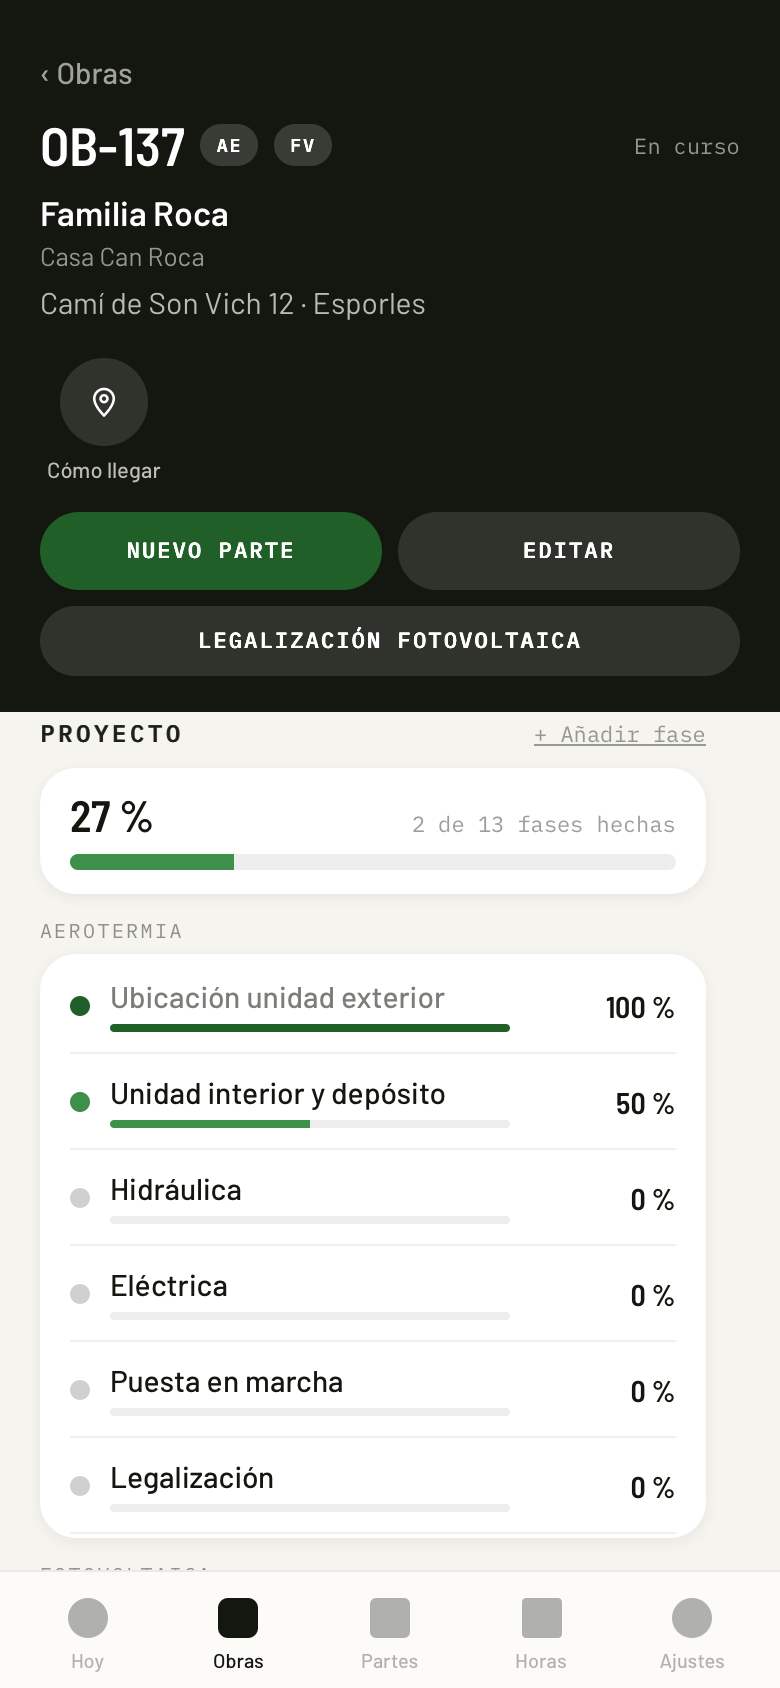
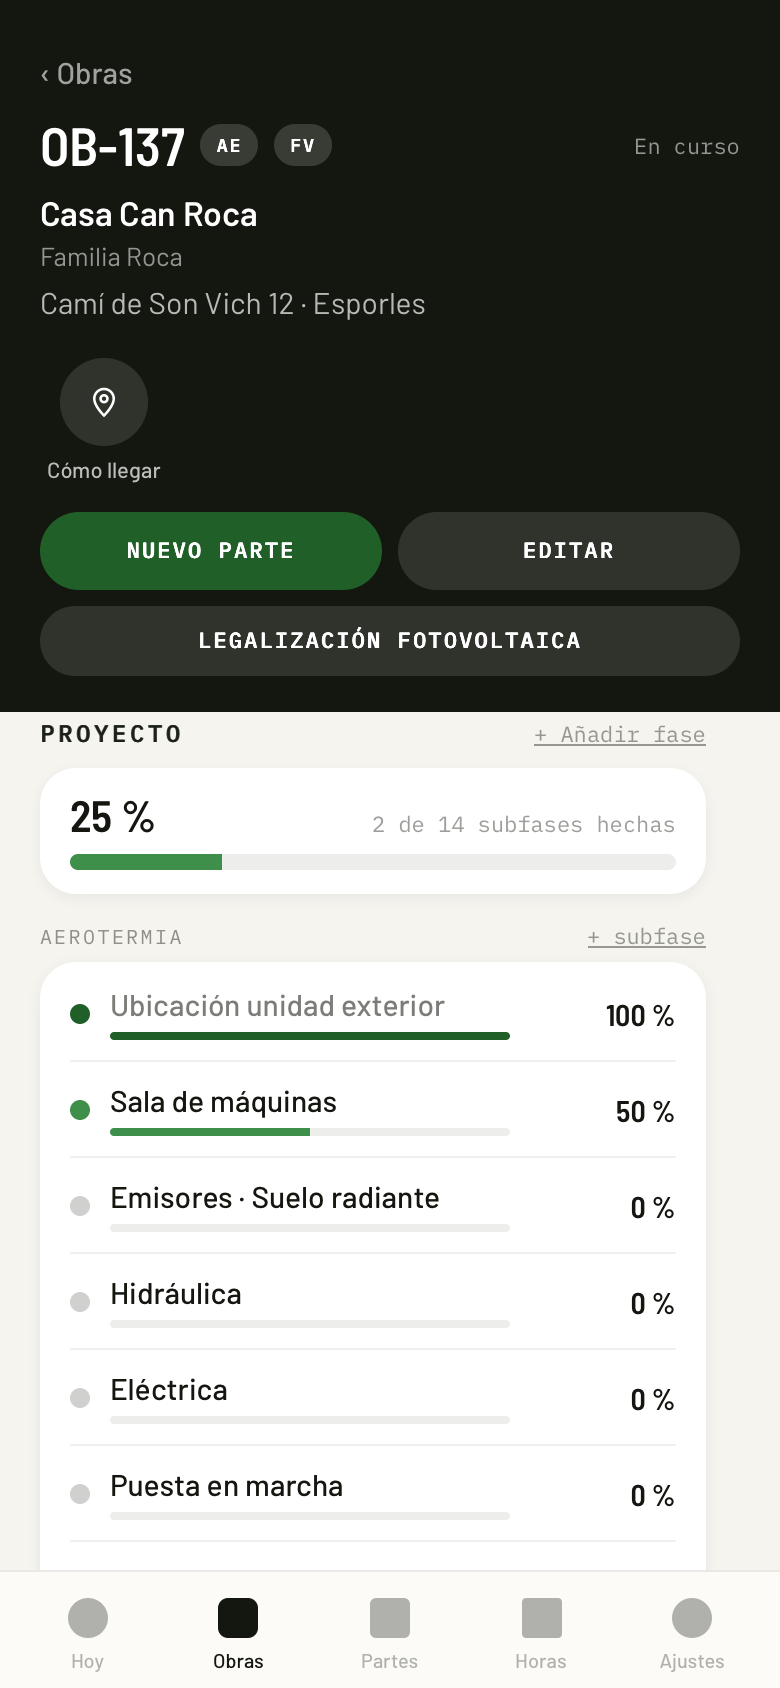
V20.7: fases propias en el proyecto («Fontanería», «Piscina») con sus subfases; «+ subfase» en cada fase

diff --git a/index.html b/index.html
@@ -390,7 +390,7 @@ import * as visitasDB from './visitas-db.js';
 window.Sysefen = { supabase, auth: sysAuth, db: sysDB };
 
 const KEY = 'ch_v1';
-const APP_VERSION = '20.6'; // versión visible de la app (única fuente)
+const APP_VERSION = '20.7'; // versión visible de la app (única fuente)
 const $ = (s) => document.querySelector(s);
 const esc = (v) => String(v == null ? '' : v).replace(/[&<>"']/g, (c) => ({ '&': '&amp;', '<': '&lt;', '>': '&gt;', '"': '&quot;', "'": '&#39;' }[c]));
 const uid = () => Date.now().toString(36) + Math.random().toString(36).slice(2, 7);
@@ -2494,6 +2494,7 @@ A.cerrarObra = async (id) => {
 S.fases = S.fases || [];
 const PCTS = [0, 25, 50, 75, 100];
 const faltaEtapa63 = (e) => /obra_fases|parte_fases|fase_plantillas|schema cache|PGRST205/i.test(typeof e === 'string' ? e : msgError(e));
+const faltaEtapa73 = (e) => /grupo/i.test(msgError(e));
 let sincFases = false;
 async function sincronizarFases() {
   if (!V.user || sincFases) return;
@@ -2511,7 +2512,7 @@ const veFasesComunes = () => veCostes();
 const planifica = () => veCostes();
 const HORA_VER_MANANA = 14;
 const yaSeVeManana = () => new Date().getHours() >= HORA_VER_MANANA;
-const fasesDe = (obraId) => S.fases.filter((f) => f.obra_id === obraId && (veFasesComunes() || f.categoria)).sort((a, b) => a.orden - b.orden || String(a.nombre).localeCompare(String(b.nombre), 'es'));
+const fasesDe = (obraId) => S.fases.filter((f) => f.obra_id === obraId && (veFasesComunes() || f.categoria || f.grupo)).sort((a, b) => a.orden - b.orden || String(a.nombre).localeCompare(String(b.nombre), 'es'));
 const faseById = (id) => S.fases.find((f) => f.id === id) || null;
 // «Emisores · Suelo radiante, Radiadores»: el nombre con lo elegido en la obra.
 const faseNombre = (f) => f.nombre + ((f.opciones || []).length ? ' · ' + f.opciones.join(', ') : '');
@@ -2528,11 +2529,25 @@ function fasesAgrupadas(obraId) {
   const fs = fasesDe(obraId);
   const grupos = [];
   const mete = (clave, titulo, lista) => { if (lista.length) grupos.push({ clave, titulo, fases: lista }); };
-  mete('ini', 'Preparación', fs.filter((f) => !f.categoria && f.orden < 500));
+  mete('ini', 'Preparación', fs.filter((f) => !f.categoria && !f.grupo && f.orden < 500));
   const o = obraById(obraId);
   OBRA_CATS.forEach((k) => mete(k, catObraNombre(k, o), fs.filter((f) => f.categoria === k)));
-  mete('fin', 'Cierre', fs.filter((f) => !f.categoria && f.orden >= 500));
+  // Las fases propias de esta obra («Fontanería», «Piscina»), en el orden en
+  // que se crearon (el de su primera subfase).
+  const propias = [];
+  fs.filter((f) => !f.categoria && f.grupo).forEach((f) => { if (!propias.includes(f.grupo)) propias.push(f.grupo); });
+  propias.forEach((g) => mete('g:' + g, g, fs.filter((f) => !f.categoria && f.grupo === g)));
+  mete('fin', 'Cierre', fs.filter((f) => !f.categoria && !f.grupo && f.orden >= 500));
   return grupos;
+}
+// Las claves de grupo que puede elegir una subfase nueva, con su nombre.
+function gruposParaSubfase(obraId) {
+  const o = obraById(obraId);
+  const lista = [['ini', 'Preparación']];
+  (o && o.categorias || []).forEach((k) => lista.push([k, catObraNombre(k, o)]));
+  fasesAgrupadas(obraId).filter((g) => g.clave.startsWith('g:')).forEach((g) => lista.push([g.clave, g.titulo]));
+  lista.push(['fin', 'Cierre']);
+  return lista;
 }
 const barraPct = (pct, color, alto) => `<div style="height:${alto || 6}px;border-radius:99px;background:rgba(20,23,15,.08);overflow:hidden"><div style="width:${Math.max(0, Math.min(100, pct))}%;height:100%;background:${color || 'var(--verde)'}"></div></div>`;
 const colorPct = (pct) => (pct >= 100 ? 'var(--verde)' : pct > 0 ? 'var(--verde-c)' : 'rgba(20,23,15,.2)');
@@ -2540,7 +2555,7 @@ const colorPct = (pct) => (pct >= 100 ? 'var(--verde)' : pct > 0 ? 'var(--verde-
 function avanceLineaHTML(obraId) {
   const a = avanceObra(obraId);
   if (!a) return '';
-  return `<div style="margin-top:10px"><div class="row" style="justify-content:space-between;align-items:baseline"><span class="lbl">Avance ${a.pct} %</span><span class="tiny">${a.hechas} de ${a.total} fases</span></div><div style="margin-top:5px">${barraPct(a.pct, colorPct(a.pct))}</div></div>`;
+  return `<div style="margin-top:10px"><div class="row" style="justify-content:space-between;align-items:baseline"><span class="lbl">Avance ${a.pct} %</span><span class="tiny">${a.hechas} de ${a.total} subfases</span></div><div style="margin-top:5px">${barraPct(a.pct, colorPct(a.pct))}</div></div>`;
 }
 // Quién puede mover el avance: quien puede hacer el parte (la base lo deja a
 // comerciales y a quien está en la obra).
@@ -2557,10 +2572,10 @@ function proyectoHTML(o) {
     return cab + `<div class="card"><div class="sub">Esta obra no tiene fases.${esComercial() ? ' Marca qué lleva la obra (AE, FV, AC) en «Editar» o ' : ' '}${esComercial() ? `<span data-a="faseGenerar" data-id="${o.id}" style="text-decoration:underline;cursor:pointer">genera las fases</span> de su categoría.` : 'Pídeselo a presupuestos.'}</div></div>`;
   }
   return cab + `<div class="card" style="padding:12px 15px">
-      <div class="row" style="justify-content:space-between;align-items:baseline"><span style="font:600 22px/1 var(--cond)">${a ? a.pct + ' %' : '—'}</span><span class="tiny">${a ? a.hechas + ' de ' + a.total + ' fases hechas' : 'todas marcadas como no aplica'}</span></div>
+      <div class="row" style="justify-content:space-between;align-items:baseline"><span style="font:600 22px/1 var(--cond)">${a ? a.pct + ' %' : '—'}</span><span class="tiny">${a ? a.hechas + ' de ' + a.total + ' subfases hechas' : 'todas marcadas como no aplica'}</span></div>
       <div style="margin-top:8px">${barraPct(a ? a.pct : 0, colorPct(a ? a.pct : 0), 8)}</div>
     </div>
-    ${grupos.map((g) => `<div class="lbl" style="margin:14px 0 6px">${esc(g.titulo)}</div>
+    ${grupos.map((g) => `<div class="row" style="justify-content:space-between;align-items:baseline;margin:14px 0 6px"><div class="lbl">${esc(g.titulo)}</div>${esComercial() ? `<span class="tiny" data-a="subfaseNueva" data-id="${o.id}" data-g="${esc(g.clave)}" style="cursor:pointer;text-decoration:underline">+ subfase</span>` : ''}</div>
       <div class="card" style="padding:2px 15px">${g.fases.map((f) => `<div class="row g10" data-a="faseVer" data-id="${f.id}" style="align-items:center;padding:10px 0;border-bottom:1px solid var(--l1);cursor:pointer;${f.no_aplica ? 'opacity:.45' : ''}">
           <span class="dot" style="width:10px;height:10px;background:${f.no_aplica ? 'transparent' : colorPct(f.pct)};${f.no_aplica ? 'border:1.5px solid var(--t3)' : ''}"></span>
           <div class="grow"><div style="font:500 15px/1.25 var(--sans);${f.pct === 100 ? 'color:var(--t2)' : ''}">${esc(faseNombre(f))}${(f.opciones_posibles || []).length && !(f.opciones || []).length ? ' <span class="tiny" style="color:var(--ambar-o)">· elegir</span>' : ''}</div>
@@ -2576,12 +2591,12 @@ function avanceParteHTML(d) {
   const avance = d.avance || {};
   return `<div class="row" style="justify-content:space-between;margin:22px 0 8px;align-items:baseline">
       <div class="lbl">Avance de la obra</div>
-      <div class="tiny">${hechas} de ${fs.length} fases hechas</div>
+      <div class="tiny">${hechas} de ${fs.length} subfases hechas</div>
     </div>
-    <div class="tiny" style="margin-bottom:8px">Con este parte, ¿hasta dónde queda cada fase? Toca el porcentaje. Lo que no cambie, se queda como está.</div>
+    <div class="tiny" style="margin-bottom:8px">Con este parte, ¿hasta dónde queda cada subfase? Toca el porcentaje. Lo que no cambie, se queda como está.</div>
     <div class="card" style="padding:2px 15px">
       ${pendientes.length ? pendientes.map((f) => { const v = avance[f.id] != null ? avance[f.id] : f.pct; return `<div style="padding:11px 0;border-bottom:1px solid var(--l1)">
-        <div class="row" style="justify-content:space-between;align-items:baseline"><span style="font:500 15px/1.25 var(--sans)">${esc(faseNombre(f))}${f.categoria ? ` <span class="badge" style="background:rgba(20,23,15,.07);color:var(--t2)">${esc(f.categoria)}</span>` : ''}</span><span class="tiny">${avance[f.id] != null && avance[f.id] !== f.pct ? 'antes ' + f.pct + ' %' : ''}</span></div>
+        <div class="row" style="justify-content:space-between;align-items:baseline"><span style="font:500 15px/1.25 var(--sans)">${esc(faseNombre(f))}${f.categoria || f.grupo ? ` <span class="badge" style="background:rgba(20,23,15,.07);color:var(--t2)">${esc(f.categoria || f.grupo)}</span>` : ''}</span><span class="tiny">${avance[f.id] != null && avance[f.id] !== f.pct ? 'antes ' + f.pct + ' %' : ''}</span></div>
         <div class="row g8" style="margin-top:8px">${PCTS.map((pc) => `<span class="chip ${v === pc ? 'on' : ''}" data-a="parteAvance" data-id="${f.id}" data-p="${pc}" style="padding:8px 0;flex:1;text-align:center;${pc < f.pct ? 'opacity:.35' : ''}">${pc}</span>`).join('')}</div>
       </div>`; }).join('') : '<div class="sub" style="padding:12px 0">Todas las fases están al 100 %.</div>'}
     </div>`;
@@ -2620,18 +2635,39 @@ A.faseNota = async () => {
 };
 A.faseQuitar = async (id) => {
   const f = faseById(id); if (!f || !esComercial()) return;
-  try { await Sysefen.db.borrarFase(id); S.fases = S.fases.filter((x) => x.id !== id); V.sheet = null; toast('Fase quitada.'); render(); }
+  try { await Sysefen.db.borrarFase(id); S.fases = S.fases.filter((x) => x.id !== id); V.sheet = null; toast('Subfase quitada.'); render(); }
   catch (e) { avisar('No se pudo quitar: ' + msgError(e)); }
 };
-A.faseNueva = (obraId) => { const o = obraById(obraId); V.sheet = { tipo: 'faseNueva', obraId, nombre: '', categoria: (o && o.categorias && o.categorias[0]) || null, busy: false }; render(); };
+// Una FASE es un bloque del proyecto (Preparación, Aerotermia, Fontanería…);
+// dentro van las SUBFASES. Las de categoría salen de la plantilla; las propias
+// («Fontanería», «Piscina») se crean aquí con sus primeras subfases.
+A.faseNueva = (obraId) => { V.sheet = { tipo: 'faseNueva', obraId, nombre: '', subfases: '', busy: false }; render(); };
 A.faseCrear = async () => {
   const s = V.sheet; if (!s || s.tipo !== 'faseNueva' || s.busy) return;
-  const nombre = (s.nombre || '').trim(); if (!nombre) { avisar('Pon el nombre de la fase.'); return; }
+  const grupo = (s.nombre || '').trim(); if (!grupo) { avisar('Pon el nombre de la fase (por ejemplo, Fontanería).'); return; }
+  if (fasesAgrupadas(s.obraId).some((g) => g.titulo.toLowerCase() === grupo.toLowerCase())) { avisar('Ya hay una fase que se llama así: añádele subfases desde su «+ subfase».'); return; }
+  const nombres = String(s.subfases || '').split(/\n|;/).map((x) => x.trim()).filter(Boolean);
+  if (!nombres.length) { avisar('Pon al menos una subfase, una por línea.'); return; }
   s.busy = true; render();
-  const fs = fasesDe(s.obraId).filter((f) => (f.categoria || null) === (s.categoria || null));
-  const orden = fs.length ? Math.max(...fs.map((f) => f.orden)) + 1 : (s.categoria ? 400 : 40);
-  try { const nf = await Sysefen.db.crearFase({ obra_id: s.obraId, categoria: s.categoria || null, nombre, orden }); S.fases.push(nf); V.sheet = null; toast('Fase añadida.'); render(); }
-  catch (e) { s.busy = false; avisar(faltaEtapa63(e) ? 'Falta ejecutar sql/etapa63 en Supabase.' : 'No se pudo añadir: ' + msgError(e)); render(); }
+  try {
+    let orden = 700;
+    for (const nombre of nombres) { const nf = await Sysefen.db.crearFase({ obra_id: s.obraId, categoria: null, grupo, nombre, orden: orden++ }); S.fases.push(nf); }
+    V.sheet = null; toast('Fase «' + grupo + '» añadida con ' + nombres.length + (nombres.length === 1 ? ' subfase.' : ' subfases.')); render();
+  } catch (e) { s.busy = false; avisar(faltaEtapa73(e) ? 'Falta ejecutar sql/etapa73 en Supabase.' : faltaEtapa63(e) ? 'Falta ejecutar sql/etapa63 en Supabase.' : 'No se pudo añadir: ' + msgError(e)); render(); }
+};
+A.subfaseNueva = (obraId, clave) => { V.sheet = { tipo: 'subfaseNueva', obraId, nombre: '', clave: clave || (gruposParaSubfase(obraId)[1] || ['ini'])[0], busy: false }; render(); };
+A.subfaseCrear = async () => {
+  const s = V.sheet; if (!s || s.tipo !== 'subfaseNueva' || s.busy) return;
+  const nombre = (s.nombre || '').trim(); if (!nombre) { avisar('Pon el nombre de la subfase.'); return; }
+  s.busy = true; render();
+  const clave = s.clave || 'ini';
+  const esGrupo = clave.startsWith('g:'), esCat = OBRA_CATS.includes(clave);
+  const fila = { obra_id: s.obraId, categoria: esCat ? clave : null, nombre };
+  if (esGrupo) fila.grupo = clave.slice(2);
+  const hermanas = fasesDe(s.obraId).filter((f) => esGrupo ? f.grupo === fila.grupo : esCat ? f.categoria === clave : (!f.categoria && !f.grupo && (clave === 'fin' ? f.orden >= 500 : f.orden < 500)));
+  fila.orden = hermanas.length ? Math.max(...hermanas.map((f) => f.orden)) + 1 : (esGrupo ? 700 : esCat ? 400 : clave === 'fin' ? 540 : 40);
+  try { const nf = await Sysefen.db.crearFase(fila); S.fases.push(nf); V.sheet = null; toast('Subfase añadida.'); render(); }
+  catch (e) { s.busy = false; avisar(faltaEtapa73(e) ? 'Falta ejecutar sql/etapa73 en Supabase.' : faltaEtapa63(e) ? 'Falta ejecutar sql/etapa63 en Supabase.' : 'No se pudo añadir: ' + msgError(e)); render(); }
 };
 A.faseGenerar = async (obraId) => {
   try { await Sysefen.db.generarFasesObra(obraId); await sincronizarFases(); render(); }
@@ -10695,19 +10731,49 @@ function sheet() {
       </div>
     </div></div>`;
   }
-  if (s.tipo === 'faseNueva' || s.tipo === 'plantillaNueva') {
-    const o = s.obraId ? obraById(s.obraId) : null;
-    const cats = o ? (o.categorias || []) : ['FV', 'AE', 'AC', 'EL', 'BAT', 'CC'];
+  if (s.tipo === 'faseNueva') {
+    const o = obraById(s.obraId);
     return `<div class="sheet"><div>
-      <div style="font:600 23px/1.15 var(--cond)">${s.tipo === 'faseNueva' ? 'Añadir fase a ' + esc(codigoObra(o) || (o || {}).titulo || '') : 'Nueva fase de plantilla'}</div>
-      <div class="lbl" style="margin:14px 0 6px">Nombre</div>
-      <input class="inp" data-f="faseNombre" value="${esc(s.nombre)}" placeholder="Montaje de paneles, zanja, andamio…">
-      ${s.tipo === 'plantillaNueva' ? `<div class="lbl" style="margin:12px 0 6px">Descripción (opcional)</div><input class="inp" data-f="faseDescripcion" value="${esc(s.descripcion || '')}" placeholder="Qué incluye">` : ''}
-      <div class="lbl" style="margin:12px 0 6px">De qué parte</div>
-      <div class="wrap"><span class="chip ${!s.categoria ? 'on' : ''}" data-a="faseCat" data-c="" style="cursor:pointer">${s.tipo === 'faseNueva' ? 'Toda la obra' : 'Todas las obras'}</span>${cats.map((k) => `<span class="chip ${s.categoria === k ? 'on' : ''}" data-a="faseCat" data-c="${k}" style="cursor:pointer">${esc(CAT_NOMBRE[k] || k)}</span>`).join('')}</div>
+      <div style="font:600 23px/1.15 var(--cond)">Nueva fase en ${esc(codigoObra(o) || (o || {}).titulo || '')}</div>
+      <div class="sub" style="margin-top:6px">Una fase es un bloque del proyecto, como Aerotermia o Fotovoltaica. Dentro van sus subfases.</div>
+      <div class="lbl" style="margin:14px 0 6px">Nombre de la fase</div>
+      <input class="inp" data-f="faseNombre" value="${esc(s.nombre)}" placeholder="Fontanería, Piscina, Obra civil…">
+      <div class="lbl" style="margin:12px 0 6px">Subfases · una por línea</div>
+      <textarea class="inp" data-f="faseSubfases" rows="4" placeholder="Tuberías\nSanitarios\nPruebas">${esc(s.subfases || '')}</textarea>
+      <div class="tiny" style="margin-top:6px">Luego se pueden añadir más desde «+ subfase» en la propia fase.</div>
       <div class="row g8" style="margin-top:18px">
         <button class="btn btn-gris" data-a="cerrarSheet" style="border-radius:99px">Cancelar</button>
-        <button class="btn btn-verde" data-a="${s.tipo === 'faseNueva' ? 'faseCrear' : 'plantillaCrear'}" ${s.busy ? 'disabled' : ''}>${s.busy ? 'Guardando…' : 'Añadir'}</button>
+        <button class="btn btn-verde" data-a="faseCrear" ${s.busy ? 'disabled' : ''}>${s.busy ? 'Guardando…' : 'Crear fase'}</button>
+      </div>
+    </div></div>`;
+  }
+  if (s.tipo === 'subfaseNueva') {
+    const o = obraById(s.obraId);
+    const grupos = gruposParaSubfase(s.obraId);
+    return `<div class="sheet"><div>
+      <div style="font:600 23px/1.15 var(--cond)">Nueva subfase en ${esc(codigoObra(o) || (o || {}).titulo || '')}</div>
+      <div class="lbl" style="margin:14px 0 6px">Nombre</div>
+      <input class="inp" data-f="faseNombre" value="${esc(s.nombre)}" placeholder="Montaje de paneles, zanja, andamio…">
+      <div class="lbl" style="margin:12px 0 6px">En qué fase</div>
+      <div class="wrap">${grupos.map(([k, t]) => `<span class="chip ${s.clave === k ? 'on' : ''}" data-a="subfaseGrupo" data-g="${esc(k)}" style="cursor:pointer">${esc(t)}</span>`).join('')}</div>
+      <div class="row g8" style="margin-top:18px">
+        <button class="btn btn-gris" data-a="cerrarSheet" style="border-radius:99px">Cancelar</button>
+        <button class="btn btn-verde" data-a="subfaseCrear" ${s.busy ? 'disabled' : ''}>${s.busy ? 'Guardando…' : 'Añadir'}</button>
+      </div>
+    </div></div>`;
+  }
+  if (s.tipo === 'plantillaNueva') {
+    const cats = ['FV', 'AE', 'AC', 'EL', 'BAT', 'CC'];
+    return `<div class="sheet"><div>
+      <div style="font:600 23px/1.15 var(--cond)">Nueva subfase de plantilla</div>
+      <div class="lbl" style="margin:14px 0 6px">Nombre</div>
+      <input class="inp" data-f="faseNombre" value="${esc(s.nombre)}" placeholder="Montaje de paneles, zanja, andamio…">
+      <div class="lbl" style="margin:12px 0 6px">Descripción (opcional)</div><input class="inp" data-f="faseDescripcion" value="${esc(s.descripcion || '')}" placeholder="Qué incluye">
+      <div class="lbl" style="margin:12px 0 6px">De qué fase</div>
+      <div class="wrap"><span class="chip ${!s.categoria ? 'on' : ''}" data-a="faseCat" data-c="" style="cursor:pointer">Todas las obras</span>${cats.map((k) => `<span class="chip ${s.categoria === k ? 'on' : ''}" data-a="faseCat" data-c="${k}" style="cursor:pointer">${esc(CAT_NOMBRE[k] || k)}</span>`).join('')}</div>
+      <div class="row g8" style="margin-top:18px">
+        <button class="btn btn-gris" data-a="cerrarSheet" style="border-radius:99px">Cancelar</button>
+        <button class="btn btn-verde" data-a="plantillaCrear" ${s.busy ? 'disabled' : ''}>${s.busy ? 'Guardando…' : 'Añadir'}</button>
       </div>
     </div></div>`;
   }
@@ -11285,6 +11351,9 @@ document.addEventListener('click', (e) => {
   if (a === 'faseNueva') return A.faseNueva(d.id);
   if (a === 'faseCrear') return A.faseCrear();
   if (a === 'faseCat') { if (V.sheet) V.sheet.categoria = d.c || null; return render(); }
+  if (a === 'subfaseGrupo') { if (V.sheet) V.sheet.clave = d.g || 'ini'; return render(); }
+  if (a === 'subfaseNueva') return A.subfaseNueva(d.id, d.g);
+  if (a === 'subfaseCrear') return A.subfaseCrear();
   if (a === 'faseGenerar') return A.faseGenerar(d.id);
   if (a === 'abrirPlantillas') return A.abrirPlantillas();
   if (a === 'plantillaActiva') return A.plantillaActiva(d.id);
@@ -11396,6 +11465,7 @@ document.addEventListener('input', (e) => {
   if (f === 'categoriaOtra') { if (V.draft) V.draft.categoriaOtra = t.value; return; }
   if (f === 'faseNota') { if (V.sheet) V.sheet.nota = t.value; return; }
   if (f === 'faseNombre') { if (V.sheet) V.sheet.nombre = t.value; return; }
+  if (f === 'faseSubfases') { if (V.sheet) V.sheet.subfases = t.value; return; }
   if (f === 'faseDescripcion') { if (V.sheet) V.sheet.descripcion = t.value; return; }
   if (f === 'planBuscar') { if (V.sheet) { V.sheet.buscar = t.value; const box = document.getElementById('plan-obras'); if (box) box.innerHTML = planObrasListaHTML(V.sheet); } return; }
   if (f === 'planHora') { if (V.sheet) V.sheet.hora = t.value; return; }

diff --git a/pruebas/fases-obra.js b/pruebas/fases-obra.js
@@ -34,7 +34,7 @@ V.fasesCargadas = true;
 var html = avanceParteHTML({ obraId: 'o1', avance: {} });
 comprueba('enseña las pendientes', html.indexOf('Montaje de paneles') !== -1 && html.indexOf('Inversor') !== -1);
 comprueba('no enseña las hechas ni las que no aplican', html.indexOf('Fijaciones') === -1 && html.indexOf('Legalización') === -1);
-comprueba('dice cuántas van hechas', html.indexOf('2 de 6 fases hechas') !== -1);
+comprueba('dice cuántas van hechas', html.indexOf('2 de 6 subfases hechas') !== -1);
 igual('obra sin fases: el parte no enseña el bloque', avanceParteHTML({ obraId: 'o9' }), '');
 
 // Un jefe de obra solo ve las fases de la categoría: ni material, ni cobro.
@@ -42,6 +42,26 @@ S.users = [{ id: 'u1', nombre: 'Xavi', rol: 'jefe', activo: true }]; V.user = { 
 igual('jefe: solo el grupo de la categoría', fasesAgrupadas('o1').map((x) => x.titulo).join(','), 'Fotovoltaica');
 igual('jefe: el avance se calcula con esas', avanceObra('o1').pct, Math.round((100 + 75 + 0) / 3));
 comprueba('jefe: en el parte no sale el material', avanceParteHTML({ obraId: 'o1', avance: {} }).indexOf('Recepción de material') === -1);
+
+titulo('fases propias con subfases (V20.7)');
+S.users = [{ id: 'u0', nombre: 'Enzo', rol: 'admin', activo: true }]; V.user = { id: 'u0' };
+S.obras = (S.obras || []).concat([{ id: 'o3', numero: 3, titulo: 'Casa Roca', cliente: 'Roca', categorias: ['FV'] }]);
+S.fases = [
+  { id: 'p1', obra_id: 'o3', categoria: null, orden: 10, nombre: 'Pedido de material', pct: 0 },
+  { id: 'p9', obra_id: 'o3', categoria: null, orden: 540, nombre: 'Cobro final', pct: 0 },
+  { id: 'v1', obra_id: 'o3', categoria: 'FV', orden: 110, nombre: 'Estructura', pct: 50 },
+  { id: 'w1', obra_id: 'o3', categoria: null, grupo: 'Piscina', orden: 701, nombre: 'Vaso', pct: 100 },
+  { id: 'w2', obra_id: 'o3', categoria: null, grupo: 'Piscina', orden: 702, nombre: 'Depuradora', pct: 0 },
+  { id: 'x1', obra_id: 'o3', categoria: null, grupo: 'Fontanería', orden: 700, nombre: 'Tuberías', pct: 0 },
+];
+var g3 = fasesAgrupadas('o3');
+igual('bloques: preparación, FV, propias en orden de creación, cierre', g3.map((x) => x.titulo).join(','), 'Preparación,Fotovoltaica,Fontanería,Piscina,Cierre');
+igual('la piscina lleva sus dos subfases', g3[3].fases.map((f) => f.nombre).join('/'), 'Vaso/Depuradora');
+igual('las claves para una subfase nueva', gruposParaSubfase('o3').map((x) => x[0]).join(','), 'ini,FV,g:Fontanería,g:Piscina,fin');
+igual('el avance cuenta las propias', avanceObra('o3').total, 6);
+S.users = [{ id: 'u1', nombre: 'Xavi', rol: 'jefe', activo: true }]; V.user = { id: 'u1' };
+igual('el jefe ve FV y las propias, no las comunes', fasesAgrupadas('o3').map((x) => x.titulo).join(','), 'Fotovoltaica,Fontanería,Piscina');
+comprueba('en el parte la subfase propia lleva su fase de etiqueta', avanceParteHTML({ obraId: 'o3', avance: {} }).indexOf('>Piscina<') !== -1);
 
 titulo('al desmarcar una categoría se van sus fases (V20.5)');
 S.users = [{ id: 'u0', nombre: 'Enzo', rol: 'admin', activo: true }]; V.user = { id: 'u0' };

diff --git a/sw.js b/sw.js
@@ -1,4 +1,4 @@
-const CACHE = 'ch-v20-6';
+const CACHE = 'ch-v20-7';
 const ASSETS = ['./', './index.html', './manifest.webmanifest', './supabase-client.js', './supabase-auth.js', './supabase-db.js', './visitas-schemas.js', './visitas-form.js', './visitas-db.js', './icon-192.png?v=2', './icon-512.png?v=2', './icon-maskable.png?v=2', './logo-trans.png?v=3', './logo-blanco.png?v=3', './logo-s-blanco.png?v=2', './fondo-login.jpg'];
 
 // Al instalarse una versión nueva NO se activa sola: se queda esperando y la
